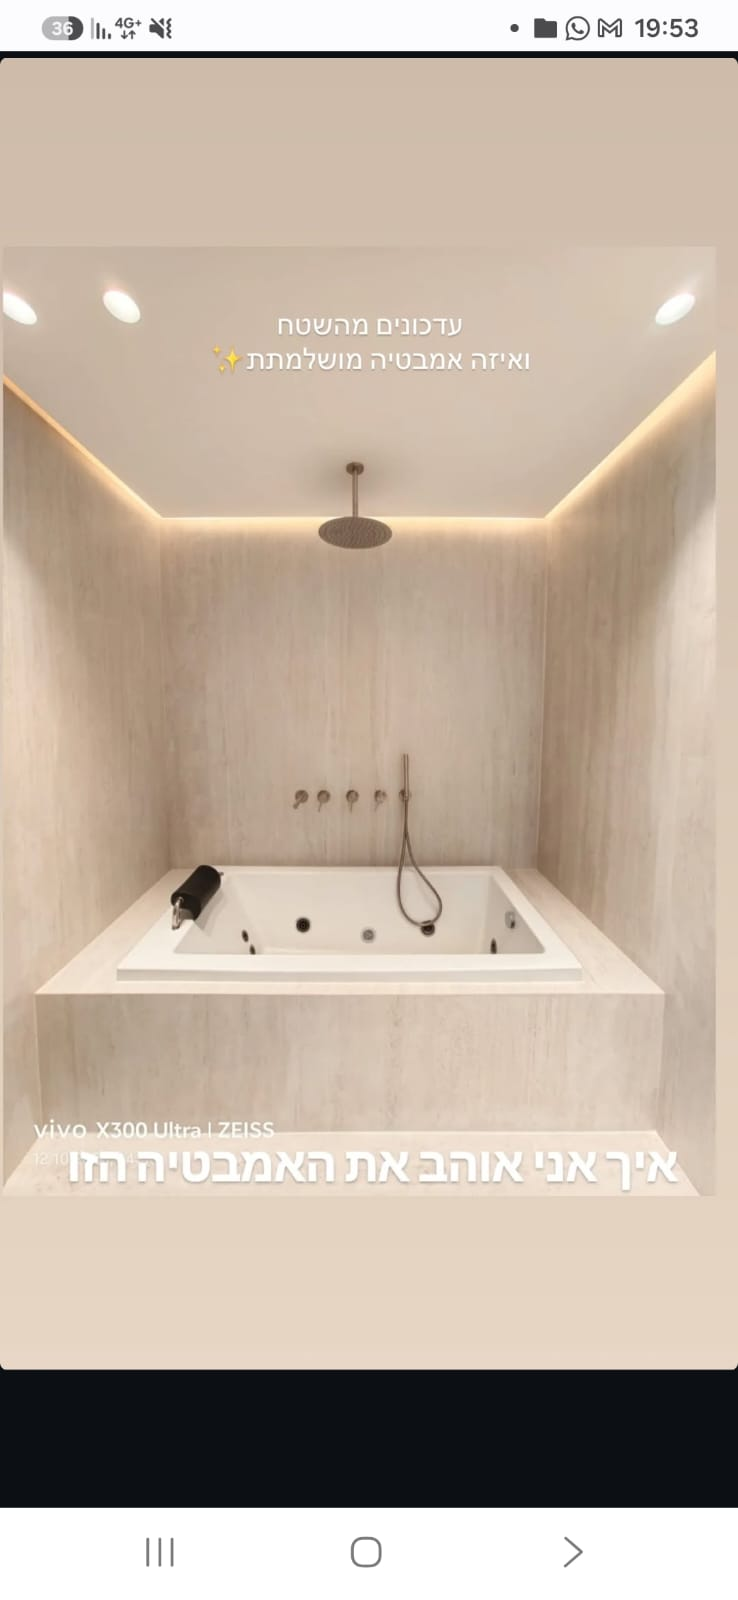
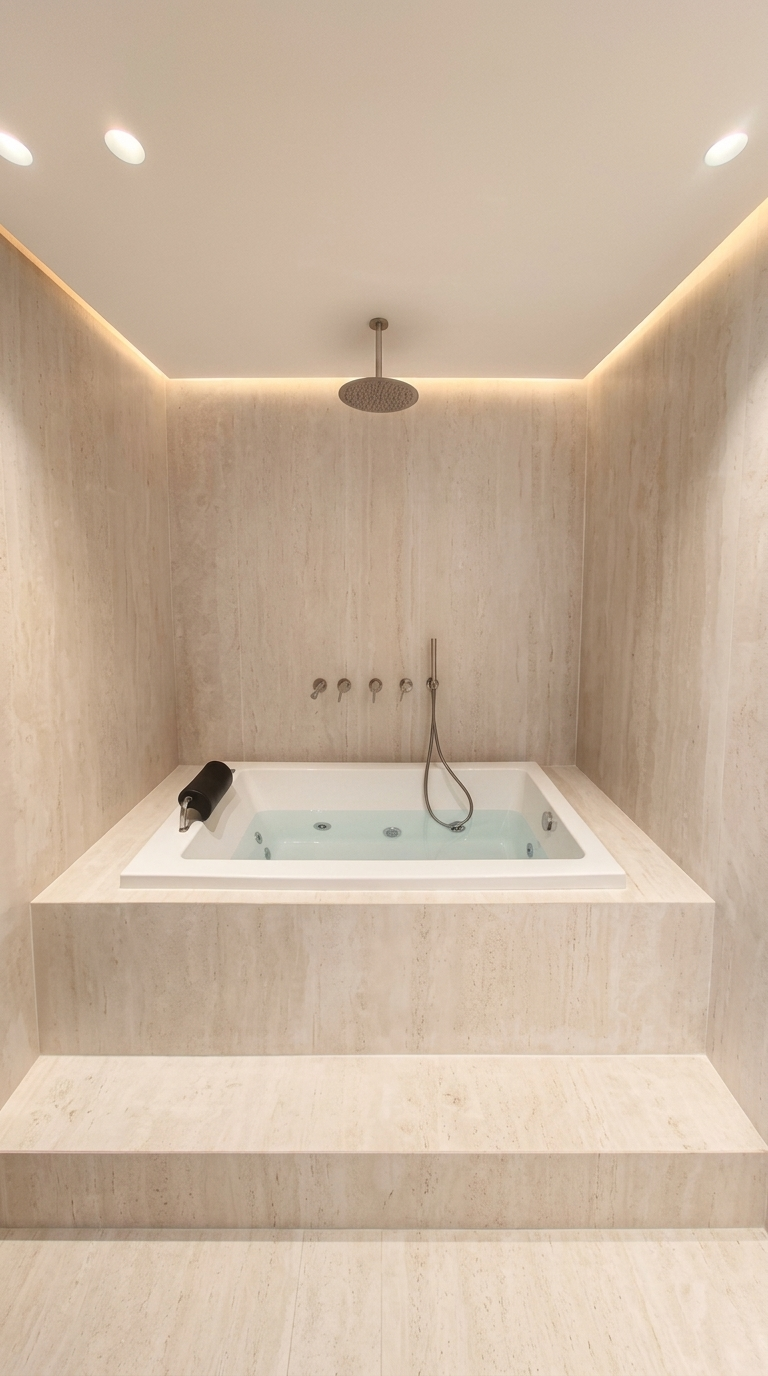
Remove white story text and watermark from b1 bathroom image and keep Card 01 title in sync

diff --git a/index.html b/index.html
@@ -504,11 +504,12 @@
             class="flip-card-inner relative w-full h-full transform-style-3d shadow-md hover:shadow-2xl transition-all duration-700 border border-borderStone">
 
             <!-- FRONT: השרטוט האדריכלי (a2.jpeg) -->
-            <div
-              class="absolute inset-0 w-full h-full backface-hidden bg-[#1E252B] flip-face-card overflow-hidden">
-              <div class="relative w-full h-full min-h-0 flex items-center justify-center p-3 bg-[#11161B] overflow-hidden">
-                <img src="a2.jpeg" alt="תוכנית עבודה אדריכלית" class="w-full h-full max-h-full object-contain filter contrast-125"
-                  loading="lazy" decoding="async" onerror="this.onerror=null; this.src='a2.jpg';" />
+            <div class="absolute inset-0 w-full h-full backface-hidden bg-[#1E252B] flip-face-card overflow-hidden">
+              <div
+                class="relative w-full h-full min-h-0 flex items-center justify-center p-3 bg-[#11161B] overflow-hidden">
+                <img src="a2.jpeg" alt="תוכנית עבודה אדריכלית"
+                  class="w-full h-full max-h-full object-contain filter contrast-125" loading="lazy" decoding="async"
+                  onerror="this.onerror=null; this.src='a2.jpg';" />
 
                 <!-- Pill Tag: תוכנית עבודה -->
                 <div
@@ -589,9 +590,9 @@
             class="flip-card-inner relative w-full h-full transform-style-3d shadow-md hover:shadow-2xl transition-all duration-700 border border-borderStone">
 
             <!-- FRONT: השרטוט האדריכלי (b2.jpeg) -->
-            <div
-              class="absolute inset-0 w-full h-full backface-hidden bg-[#1E252B] flip-face-card overflow-hidden">
-              <div class="relative w-full h-full min-h-0 flex items-center justify-center p-3 bg-[#11161B] overflow-hidden">
+            <div class="absolute inset-0 w-full h-full backface-hidden bg-[#1E252B] flip-face-card overflow-hidden">
+              <div
+                class="relative w-full h-full min-h-0 flex items-center justify-center p-3 bg-[#11161B] overflow-hidden">
                 <img src="b2.jpeg" alt="תוכנית פריסות וחללים רטובים"
                   class="w-full h-full max-h-full object-contain filter contrast-125" loading="lazy" decoding="async"
                   onerror="this.onerror=null; this.src='b2.jpg';" />
@@ -622,7 +623,8 @@
               <div class="p-4 bg-canvas border-t border-borderStone shrink-0">
                 <div class="flex items-center justify-between gap-2 mb-1">
                   <span class="text-[11px] font-mono text-bronze">DRAFTING // 02</span>
-                  <span class="text-[11px] text-slateMuted font-light">תכנון ועיצוב: רותי קולסקי • שרטוט: נחמי בוקשפן</span>
+                  <span class="text-[11px] text-slateMuted font-light">תכנון ועיצוב: רותי קולסקי • שרטוט: נחמי
+                    בוקשפן</span>
                 </div>
                 <h4 class="font-display font-medium text-base text-graphite">פריסת ריצוף, חיפוי ואינסטלציה</h4>
               </div>
@@ -669,11 +671,12 @@
             class="flip-card-inner relative w-full h-full transform-style-3d shadow-md hover:shadow-2xl transition-all duration-700 border border-borderStone">
 
             <!-- FRONT: השרטוט האדריכלי (c2.jpeg) -->
-            <div
-              class="absolute inset-0 w-full h-full backface-hidden bg-[#1E252B] flip-face-card overflow-hidden">
-              <div class="relative w-full h-full min-h-0 flex items-center justify-center p-3 bg-[#11161B] overflow-hidden">
-                <img src="c2.jpeg" alt="תוכנית נגרות ורחצה" class="w-full h-full max-h-full object-contain filter contrast-125"
-                  loading="lazy" decoding="async" onerror="this.onerror=null; this.src='c2.jpg';" />
+            <div class="absolute inset-0 w-full h-full backface-hidden bg-[#1E252B] flip-face-card overflow-hidden">
+              <div
+                class="relative w-full h-full min-h-0 flex items-center justify-center p-3 bg-[#11161B] overflow-hidden">
+                <img src="c2.jpeg" alt="תוכנית נגרות ורחצה"
+                  class="w-full h-full max-h-full object-contain filter contrast-125" loading="lazy" decoding="async"
+                  onerror="this.onerror=null; this.src='c2.jpg';" />
 
                 <div
                   class="absolute top-4 right-4 flex items-center gap-1.5 px-3 py-1 bg-graphite/90 text-white text-[11px] font-mono tracking-wider backdrop-blur-sm border border-white/20">
@@ -701,7 +704,8 @@
               <div class="p-4 bg-canvas border-t border-borderStone shrink-0">
                 <div class="flex items-center justify-between gap-2 mb-1">
                   <span class="text-[11px] font-mono text-bronze">DRAFTING // 03</span>
-                  <span class="text-[11px] text-slateMuted font-light">תכנון ועיצוב: רותי קולסקי • שרטוט: נחמי בוקשפן</span>
+                  <span class="text-[11px] text-slateMuted font-light">תכנון ועיצוב: רותי קולסקי • שרטוט: נחמי
+                    בוקשפן</span>
                 </div>
                 <h4 class="font-display font-medium text-base text-graphite">מערך חדר רחצה, אינטגרליות וחיפוי</h4>
               </div>
@@ -967,12 +971,13 @@
             <div class="relative bg-stoneSurface overflow-hidden border border-borderStone shadow-xl flex flex-col">
               <div class="relative w-full aspect-[16/10] overflow-hidden bg-stoneSurface">
                 <img src="1.jpeg" alt="נחמי בוקשפן - הנדסאית אדריכלות"
-                  class="w-full h-full object-cover filter contrast-[1.04] brightness-[0.98] transition-transform duration-700 hover:scale-105" loading="lazy" decoding="async"
-                  onerror="this.onerror=null; this.src='image_1.jpeg';" />
+                  class="w-full h-full object-cover filter contrast-[1.04] brightness-[0.98] transition-transform duration-700 hover:scale-105"
+                  loading="lazy" decoding="async" onerror="this.onerror=null; this.src='image_1.jpeg';" />
               </div>
               <div class="w-full bg-graphite text-white px-5 py-4 border-t border-bronze/30">
                 <span class="text-[11px] font-mono text-bronze block mb-1 tracking-wider">NECHAMI BOOKSHPAN</span>
-                <p class="font-display text-sm sm:text-base font-light tracking-wide">"מדויקת, אחראית ומחויבת ללוחות זמנים."</p>
+                <p class="font-display text-sm sm:text-base font-light tracking-wide">"מדויקת, אחראית ומחויבת ללוחות
+                  זמנים."</p>
               </div>
             </div>
           </div>
@@ -1210,7 +1215,8 @@
       <div class="text-xs text-stone-500 font-mono flex flex-col sm:flex-row items-center gap-2 sm:gap-4">
         <span>© <span id="year"></span> נחמי בוקשפן | 058-4715725 | כל הזכויות שמורות.</span>
         <span class="hidden sm:inline text-stone-600">•</span>
-        <span class="text-stone-400">נבנה ועוצב ע״י <a href="https://github.com/davidkorenblit" target="_blank" rel="noopener noreferrer" class="text-bronze hover:underline">דוד קורנבליט</a></span>
+        <span class="text-stone-400">נבנה ועוצב ע״י <a href="https://github.com/davidkorenblit" target="_blank"
+            rel="noopener noreferrer" class="text-bronze hover:underline">דוד קורנבליט</a></span>
       </div>
     </div>
   </footer>
